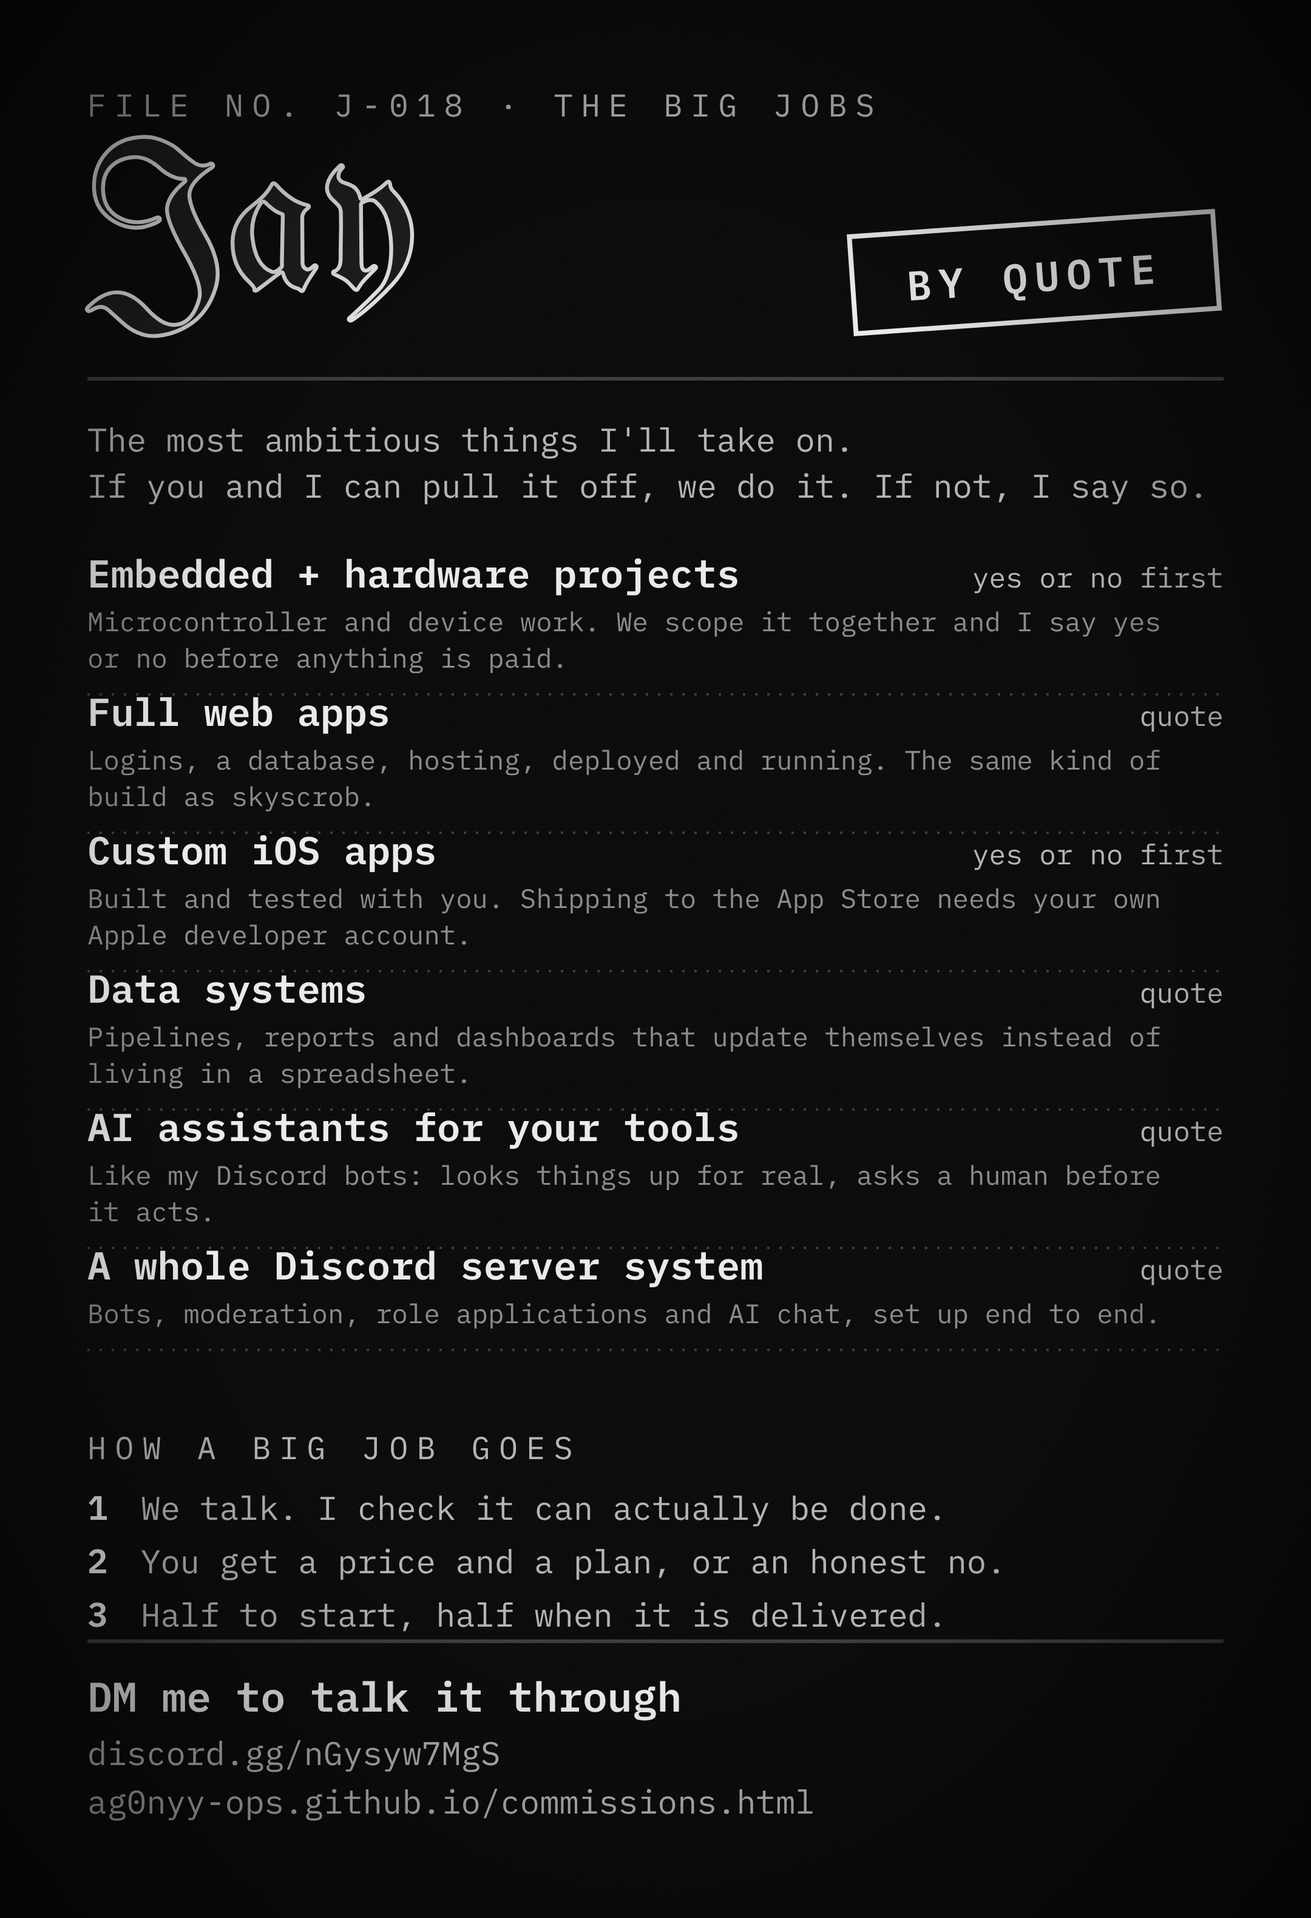
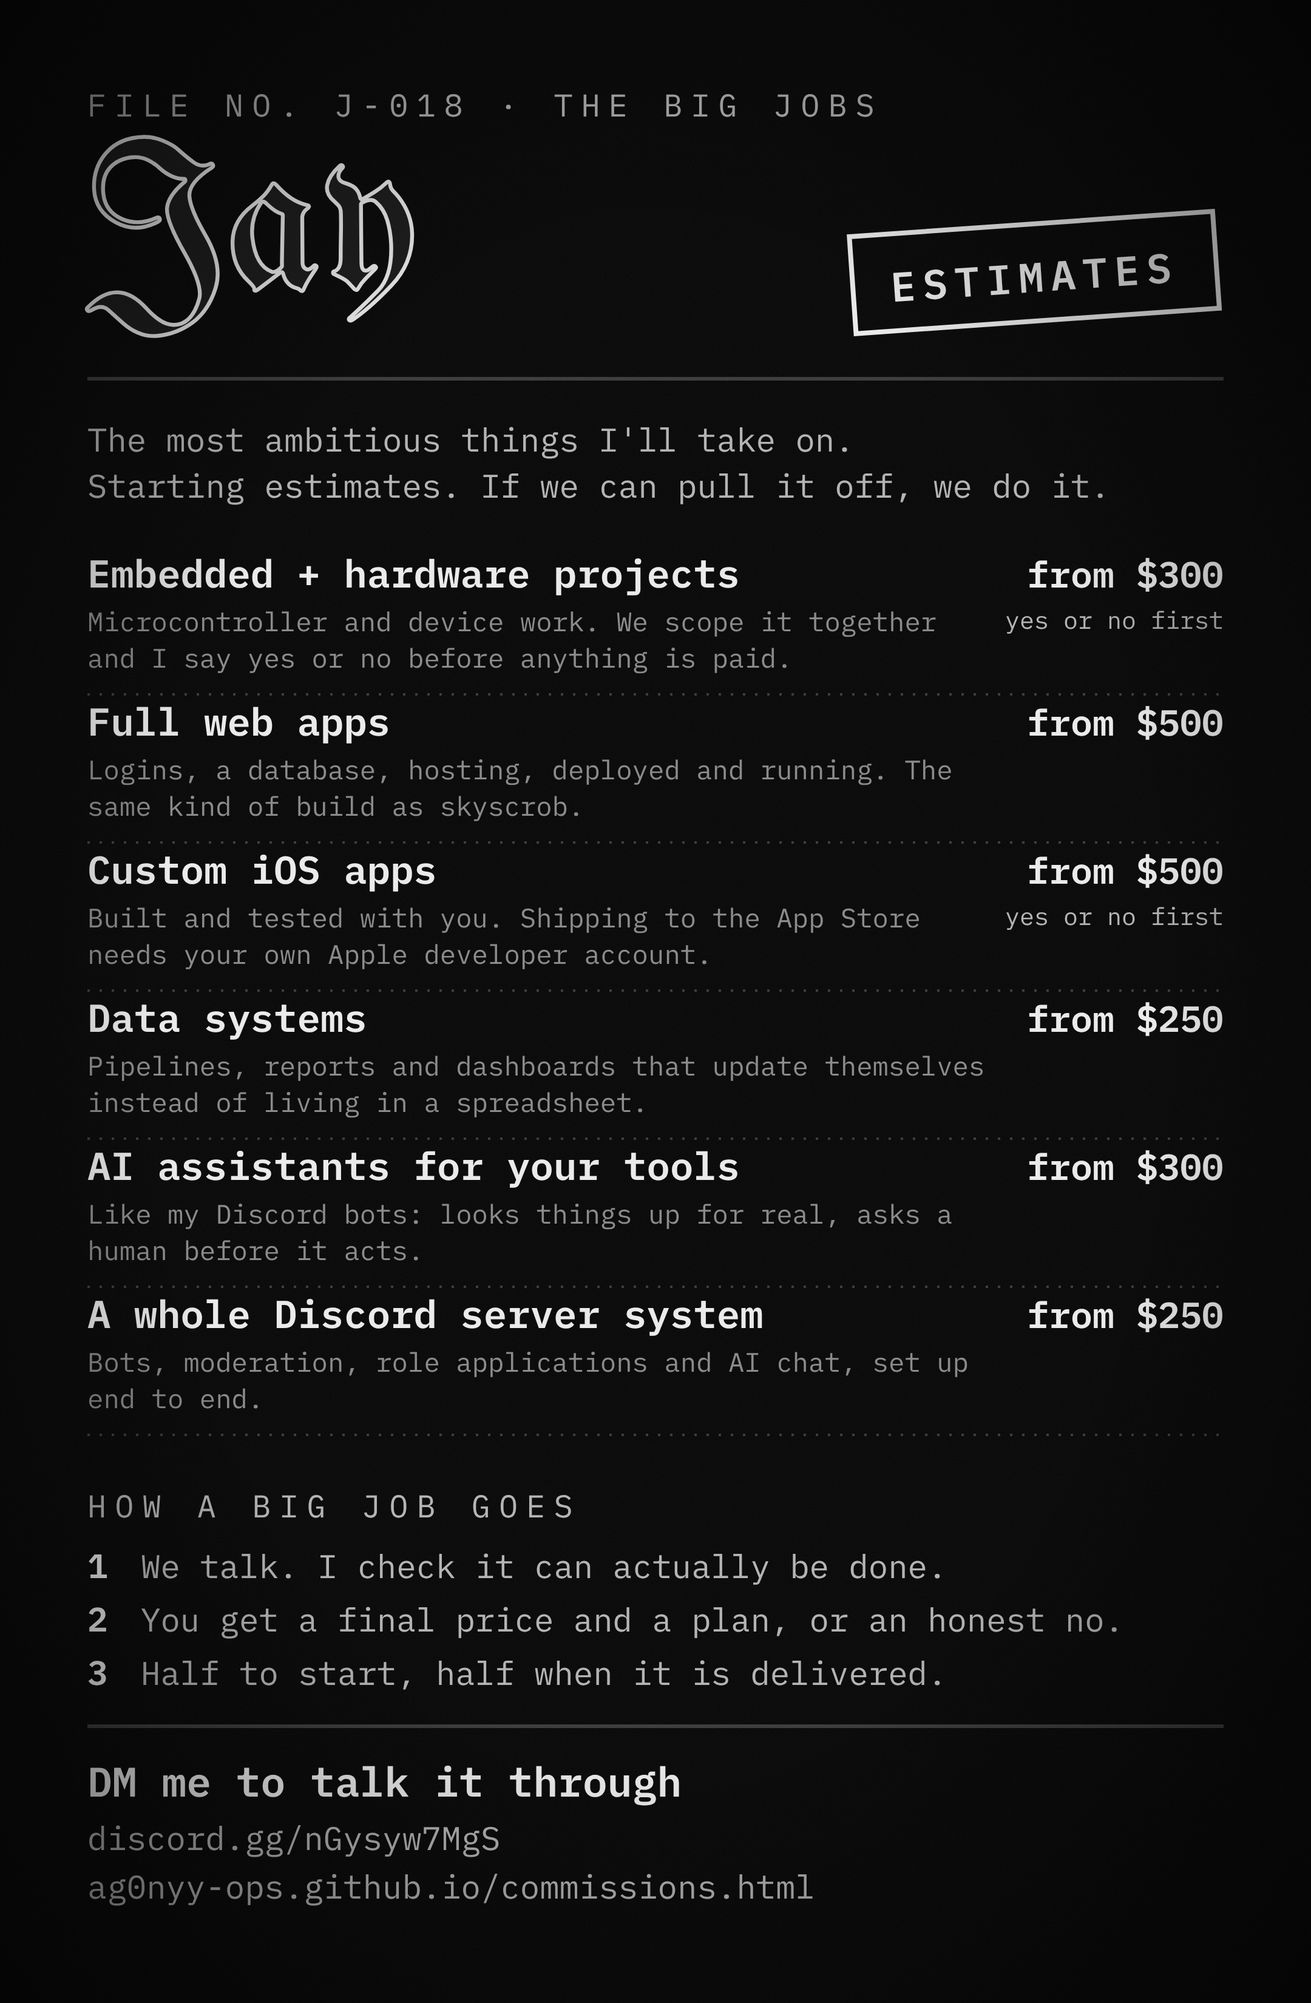
Shove the other cards aside when a level card opens, and add estimated prices for the big jobs

diff --git a/tools/make-big-jobs.js b/tools/make-big-jobs.js
@@ -1,7 +1,7 @@
 // node tools/make-big-jobs.js — "the big jobs" image: the most ambitious things I'll take on
-//   assets/commissions/big-jobs.png   1080x1580, exported at 2x
+//   assets/commissions/big-jobs.png   1080x1650, exported at 2x
 //   assets/commissions/big-jobs.svg   self-contained source (fonts + grain embedded, no external requests)
-// No prices on purpose: these are quoted per project after a feasibility check, and the sheet says so.
+// Prices are starting estimates read from assets/data/prices.js; the final price is quoted after a feasibility check.
 // Every line describes something that exists in my own projects or is scoped honestly (iOS and
 // hardware are "yes or no first"), so nothing here promises more than I can deliver.
 const { chromium } = require('playwright');
@@ -14,41 +14,48 @@ const b64 = (f) => fs.readFileSync(R + f).toString('base64');
 const JAY = JSON.parse(fs.readFileSync(R + 'tools/jay-outline.json', 'utf8'));
 const esc = (s) => String(s).replace(/&/g, '&amp;').replace(/</g, '&lt;').replace(/>/g, '&gt;');
 
+const vm = require('vm');
+const pc = { window: {}, document: { addEventListener() {}, querySelectorAll: () => [] } };
+vm.runInNewContext(fs.readFileSync(R + 'assets/data/prices.js', 'utf8'), pc);
+const P = pc.window.PRICES;
+const price = (k) => { const i = P.items[k]; return i.amount == null ? P.onRequest : `${P.label} ${P.currency}${i.amount}${i.per || ''}`; };
+
 const FG = '#ececec', MUTED = '#b4b4b4', DIM = '#8a8a8a', LINE = '#3a3a3a', BG = '#060606';
-const W = 1080, H = 1580, X0 = 72, X1 = W - 72;
+const W = 1080, H = 1650, X0 = 72, X1 = W - 72;
 
 const JOBS = [
-  ['Embedded + hardware projects', 'Microcontroller and device work. We scope it together and I say yes or no before anything is paid.', 'yes or no first'],
-  ['Full web apps', 'Logins, a database, hosting, deployed and running. The same kind of build as skyscrob.', 'quote'],
-  ['Custom iOS apps', 'Built and tested with you. Shipping to the App Store needs your own Apple developer account.', 'yes or no first'],
-  ['Data systems', 'Pipelines, reports and dashboards that update themselves instead of living in a spreadsheet.', 'quote'],
-  ['AI assistants for your tools', 'Like my Discord bots: looks things up for real, asks a human before it acts.', 'quote'],
-  ['A whole Discord server system', 'Bots, moderation, role applications and AI chat, set up end to end.', 'quote'],
+  ['Embedded + hardware projects', 'Microcontroller and device work. We scope it together and I say yes or no before anything is paid.', 'embedded', true],
+  ['Full web apps', 'Logins, a database, hosting, deployed and running. The same kind of build as skyscrob.', 'web-app-full', false],
+  ['Custom iOS apps', 'Built and tested with you. Shipping to the App Store needs your own Apple developer account.', 'ios-app', true],
+  ['Data systems', 'Pipelines, reports and dashboards that update themselves instead of living in a spreadsheet.', 'data-dashboard', false],
+  ['AI assistants for your tools', 'Like my Discord bots: looks things up for real, asks a human before it acts.', 'ai-assistant', false],
+  ['A whole Discord server system', 'Bots, moderation, role applications and AI chat, set up end to end.', 'discord-system', false],
 ];
 
 function body() {
   let s = `<text x="${X0}" y="96" font-size="26" letter-spacing="7" fill="${MUTED}">FILE NO. J-018 · THE BIG JOBS</text>`;
   s += `<g transform="translate(${X0 - 4} 236) scale(.082)"><path d="${JAY.d}" fill="#fff" fill-opacity=".08" stroke="${FG}" stroke-width="3.2" stroke-linejoin="round" vector-effect="non-scaling-stroke"/></g>`;
-  s += `<g transform="translate(${X1 - 6} 218) rotate(-4)"><rect x="-300" y="-44" width="300" height="80" fill="none" stroke="${FG}" stroke-width="4"/><text x="-150" y="12" text-anchor="middle" font-size="34" font-weight="600" letter-spacing="6" fill="${FG}">BY QUOTE</text></g>`;
+  s += `<g transform="translate(${X1 - 6} 218) rotate(-4)"><rect x="-300" y="-44" width="300" height="80" fill="none" stroke="${FG}" stroke-width="4"/><text x="-150" y="12" text-anchor="middle" font-size="34" font-weight="600" letter-spacing="6" fill="${FG}">ESTIMATES</text></g>`;
   s += `<path d="M${X0} 312 H${X1}" stroke="${LINE}" stroke-width="3"/>`;
   s += `<text x="${X0}" y="372" font-size="27" fill="${MUTED}">The most ambitious things I'll take on.</text>`;
-  s += `<text x="${X0}" y="410" font-size="27" fill="${MUTED}">If you and I can pull it off, we do it. If not, I say so.</text>`;
+  s += `<text x="${X0}" y="410" font-size="27" fill="${MUTED}">Starting estimates. If we can pull it off, we do it.</text>`;
 
-  JOBS.forEach(([name, desc, tag], i) => {
-    const y = 484 + i * 114;
+  JOBS.forEach(([name, desc, key, check], i) => {
+    const y = 484 + i * 122;
     s += `<text x="${X0}" y="${y}" font-size="32" font-weight="600" fill="${FG}">${esc(name)}</text>`;
-    s += `<text x="${X1}" y="${y}" font-size="23" text-anchor="end" fill="${MUTED}">${esc(tag)}</text>`;
+    s += `<text x="${X1}" y="${y}" font-size="30" font-weight="600" text-anchor="end" fill="${FG}">${esc(price(key))}</text>`;
+    if (check) s += `<text x="${X1}" y="${y + 34}" font-size="20" text-anchor="end" fill="${MUTED}">yes or no first</text>`;
     // wrap the description to about 68 characters a line
     const words = desc.split(' '); const lines = []; let cur = '';
-    for (const w of words) { if ((cur + ' ' + w).trim().length > 68) { lines.push(cur); cur = w; } else cur = (cur + ' ' + w).trim(); }
+    for (const w of words) { if ((cur + ' ' + w).trim().length > 56) { lines.push(cur); cur = w; } else cur = (cur + ' ' + w).trim(); }
     lines.push(cur);
     lines.forEach((l, j) => { s += `<text x="${X0}" y="${y + 36 + j * 30}" font-size="22" fill="${DIM}">${esc(l)}</text>`; });
     s += `<path d="M${X0} ${y + 36 + (lines.length - 1) * 30 + 22} H${X1}" stroke="${LINE}" stroke-width="2" stroke-dasharray="2 8"/>`;
   });
 
-  const hy = 484 + JOBS.length * 114 + 34;
+  const hy = 484 + JOBS.length * 122 + 34;
   s += `<text x="${X0}" y="${hy}" font-size="26" letter-spacing="7" fill="${MUTED}">HOW A BIG JOB GOES</text>`;
-  [['1', 'We talk. I check it can actually be done.'], ['2', 'You get a price and a plan, or an honest no.'], ['3', 'Half to start, half when it is delivered.']].forEach(([n, t], i) => {
+  [['1', 'We talk. I check it can actually be done.'], ['2', 'You get a final price and a plan, or an honest no.'], ['3', 'Half to start, half when it is delivered.']].forEach(([n, t], i) => {
     s += `<text x="${X0}" y="${hy + 50 + i * 44}" font-size="28" font-weight="600" fill="${FG}">${n}</text><text x="${X0 + 44}" y="${hy + 50 + i * 44}" font-size="27" fill="${MUTED}">${esc(t)}</text>`;
   });
   const by = H - 176;

diff --git a/assets/js/levels.js b/assets/js/levels.js
@@ -1,0 +1,137 @@
+/* jay. — © 2026 Jay — https://ag0nyy-ops.github.io/ — source viewable, not reusable (LICENSE)
+
+   Commission cards: opening one shoves the others off the screen, sideways, one after
+   another like a pile-up, then the card widens into the gap and its levels unfold.
+   Closing runs it backwards: the levels fold up, then the others drive back in.
+
+   It only adds motion. Without this script (or with reduced motion) each card is still a
+   plain <details> dropdown. Nothing here can make the page scroll sideways: the page clips
+   horizontal overflow, and the cards leave by transform only. */
+(() => {
+  'use strict';
+  const section = document.getElementById('wants');
+  if (!section) return;
+
+  const root = document.documentElement;
+  const cards = [...section.querySelectorAll('.want')];
+  const label = section.querySelector('.more__k');
+  const reduce = matchMedia('(prefers-reduced-motion: reduce)');
+  root.classList.add('js-levels');
+
+  let busy = false;
+  const wait = (ms) => new Promise((r) => setTimeout(r, ms));
+  const rect = (el) => el.getBoundingClientRect();
+  const done = (anims) => Promise.all(anims.map((a) => a.finished.catch(() => {})));
+
+  /* everything that is not `card`, nearest first, with the side it gets shoved to:
+     left of the card goes left, right of it goes right, and a card directly above or
+     below goes left or right depending on whether it is above or below */
+  function others(card) {
+    const c = rect(card), cx = c.left + c.width / 2, cy = c.top + c.height / 2;
+    return cards.filter((o) => o !== card && !o.hidden).map((el) => {
+      const r = rect(el), ox = r.left + r.width / 2, oy = r.top + r.height / 2;
+      const dir = Math.abs(ox - cx) < 24 ? (oy < cy ? -1 : 1) : (ox < cx ? -1 : 1);
+      // far enough that the whole card is past the screen edge
+      const x = dir < 0 ? -(r.right + 80) : innerWidth - r.left + 80;
+      return { el, dir, x, dist: Math.hypot(ox - cx, oy - cy) };
+    }).sort((a, b) => a.dist - b.dist);
+  }
+  const offscreen = (m, i) => `translateX(${m.x}px) rotate(${m.dir * (7 + (i % 3) * 3)}deg)`;
+
+  function settle(card) {            // bring the card into view if the layout moved it away
+    const r = rect(card);
+    if (r.top < 70 || r.top > innerHeight * 0.55) scrollTo({ top: scrollY + r.top - 100, behavior: 'smooth' });
+  }
+
+  async function open(card) {
+    const d = card.querySelector('.want__d');
+    const movers = others(card);
+
+    if (reduce.matches) {
+      movers.forEach((m) => { m.el.hidden = true; });
+      if (label) label.hidden = true;
+      card.classList.add('is-open'); d.open = true;
+      settle(card);
+      return;
+    }
+
+    root.style.overflowAnchor = 'none';
+    // the impact: the card takes a hit as the others are knocked away
+    card.animate([{ transform: 'scale(1)' }, { transform: 'scale(1.03)' }, { transform: 'scale(1)' }],
+      { duration: 300, delay: 40, easing: 'ease-out' });
+    const out = movers.map((m, i) => m.el.animate(
+      [{ transform: 'none' }, { transform: offscreen(m, i) }],
+      { duration: 380, delay: Math.min(i * 22, 110), easing: 'cubic-bezier(.6,.05,.9,.5)', fill: 'forwards' }));
+    await done(out);
+
+    // they are gone: take them out of the layout so the card can widen into the gap
+    const old = rect(card);
+    movers.forEach((m) => { m.el.hidden = true; });
+    if (label) label.hidden = true;
+    out.forEach((a) => a.cancel());
+    card.classList.add('is-open'); d.open = true;
+    const now = rect(card);
+
+    // the card slides and widens from where it was to where it is now
+    card.style.justifySelf = 'start';
+    const flip = card.animate([
+      { width: old.width + 'px', transform: `translate(${old.left - now.left}px, ${old.top - now.top}px)` },
+      { width: now.width + 'px', transform: 'none' },
+    ], { duration: 440, easing: 'cubic-bezier(.22,1,.36,1)' });
+    await done([flip]);
+    card.style.justifySelf = '';
+    root.style.overflowAnchor = '';
+    settle(card);
+  }
+
+  async function close(card) {
+    const d = card.querySelector('.want__d');
+    d.querySelectorAll('.level[open]').forEach((l) => { l.open = false; });
+
+    if (reduce.matches) {
+      d.open = false; card.classList.remove('is-open');
+      cards.forEach((o) => { o.hidden = false; }); if (label) label.hidden = false;
+      return;
+    }
+
+    d.open = false;                  // the levels fold up first (a CSS transition), still wide
+    await wait(440);
+    root.style.overflowAnchor = 'none';
+    const old = rect(card);
+    card.classList.remove('is-open');
+    cards.forEach((o) => { o.hidden = false; }); if (label) label.hidden = false;
+    const now = rect(card);
+    const movers = others(card);
+
+    // the others drive back in from the sides, nearest first
+    const back = movers.map((m, i) => m.el.animate(
+      [{ transform: offscreen(m, i) }, { transform: 'none' }],
+      { duration: 460, delay: Math.min(i * 22, 110), easing: 'cubic-bezier(.1,.6,.3,1)', fill: 'backwards' }));
+    card.style.justifySelf = 'start';
+    const flip = card.animate([
+      { width: old.width + 'px', transform: `translate(${old.left - now.left}px, ${old.top - now.top}px)` },
+      { width: now.width + 'px', transform: 'none' },
+    ], { duration: 440, easing: 'cubic-bezier(.22,1,.36,1)' });
+    await done([flip, ...back]);
+    card.style.justifySelf = '';
+    root.style.overflowAnchor = '';
+    settle(card);
+  }
+
+  async function toggle(card) {
+    if (busy) return;
+    busy = true;
+    try { await (card.classList.contains('is-open') ? close(card) : open(card)); }
+    finally { busy = false; }
+  }
+
+  cards.filter((c) => c.classList.contains('want--levels')).forEach((card) => {
+    const summary = card.querySelector('.want__d > summary');
+    summary.addEventListener('click', (e) => { e.preventDefault(); toggle(card); });
+  });
+  addEventListener('keydown', (e) => {
+    if (e.key !== 'Escape') return;
+    const card = section.querySelector('.want.is-open');
+    if (card) toggle(card);
+  });
+})();

diff --git a/assets/data/prices.js b/assets/data/prices.js
@@ -28,13 +28,17 @@ window.PRICES = {
     'website-small':    { amount: 150 },                    // websites: small site
     'web-app-standard': { amount: 300 },                    // web apps: app with accounts
     'web-app-full':     { amount: 500 },                    // web apps: full app
+    // --- the big jobs (estimates: the final price is quoted after a feasibility check) ---
+    'embedded':         { amount: 300 },                    // embedded + hardware projects
+    'ios-app':          { amount: 500 },                    // a full custom iOS app
+    'ai-assistant':     { amount: 300 },                    // an AI assistant wired into your tools
     'backends':         { amount: 100 },                    // APIs, backends + hosting
     'websites':         { amount: 75 },                     // websites + landing pages
     'web-apps':         { amount: 150 },                    // 02 custom web apps + tools
     'ai':               { amount: 100 },                    // 03 ai chatbots + integrations
     'automation':       { amount: 40 },                     // 04 automation + scripts
     'discord-bots':     { amount: 50 },                     // 05 discord bots + server setup
-    'mobile':           { amount: null },                   // 06 ios / mobile prototypes
+    'mobile':           { amount: 100 },                    // ios / mobile prototypes
     'maintenance':      { amount: 15, per: ' per fix',      // 07 fixes + maintenance
                           or: { amount: 15, per: '/mo care plan' } },
     'custom-showpiece': { amount: 300 },                    // the "like this one" line

diff --git a/commissions.html b/commissions.html
@@ -23,7 +23,7 @@
   <!-- fonts are self-hosted (assets/fonts); preload the two the first screen needs -->
   <link rel="preload" href="assets/fonts/unifrakturmaguntia-400-latin.woff2" as="font" type="font/woff2" crossorigin>
   <link rel="preload" href="assets/fonts/ibm-plex-sans-latin.woff2" as="font" type="font/woff2" crossorigin>
-  <link rel="stylesheet" href="assets/css/style.css?v=18">
+  <link rel="stylesheet" href="assets/css/style.css?v=19">
   <script>
     /* The only blocking JS, kept tiny:
        1. skip the eyelid intro on repeat visits this session
@@ -54,6 +54,7 @@
     })(document.documentElement);
   </script>
   <script src="assets/js/main.js?v=14" defer></script>
+  <script src="assets/js/levels.js?v=1" defer></script>
 </head>
 <body>
   <a class="skip" href="#main">Skip to content</a>
@@ -447,7 +448,7 @@
         <span class="price__amt"><b data-price="custom-showpiece">quote on request</b></span>
         <a class="price__cta" href="https://discord.gg/nGysyw7MgS" target="_blank" rel="noopener">DM to book <span aria-hidden="true">↗</span></a>
       </p>
-      <p class="scope-note bleed">Final price depends on scope. iOS / mobile prototypes and unusual jobs are quoted per project. <a href="https://discord.gg/nGysyw7MgS" target="_blank" rel="noopener">DM me with what you need.</a></p>
+      <p class="scope-note bleed">Final price depends on scope. Unusual jobs are quoted per project. <a href="https://discord.gg/nGysyw7MgS" target="_blank" rel="noopener">DM me with what you need.</a></p>
       <script src="assets/data/prices.js?v=8"></script>
     </section>
 

diff --git a/index.html b/index.html
@@ -23,7 +23,7 @@
   <!-- fonts are self-hosted (assets/fonts); preload the two the first screen needs -->
   <link rel="preload" href="assets/fonts/unifrakturmaguntia-400-latin.woff2" as="font" type="font/woff2" crossorigin>
   <link rel="preload" href="assets/fonts/ibm-plex-sans-latin.woff2" as="font" type="font/woff2" crossorigin>
-  <link rel="stylesheet" href="assets/css/style.css?v=18">
+  <link rel="stylesheet" href="assets/css/style.css?v=19">
   <script>
     /* The only blocking JS, kept tiny:
        1. skip the eyelid intro on repeat visits this session

diff --git a/assets/css/style.css b/assets/css/style.css
@@ -1662,6 +1662,11 @@
     .want__d[open]::details-content, .level[open]::details-content { block-size: auto; }
   }
 
+  /* ---- the push-aside animation (assets/js/levels.js) ---- */
+  .want[hidden], .more__k[hidden] { display: none !important; }
+  .wants:not(:has(> .want:not([hidden]))) { display: none; }
+  .want--levels.is-open { grid-column: 1 / -1; border-color: var(--fg); }
+
   /* the current page in the top bar stays fully lit */
   .topbar__nav a[aria-current="page"] { opacity: 1; }
 }

diff --git a/README.md b/README.md
@@ -103,6 +103,8 @@ node tools/make-previews-shots.js
 
 Seven of the service cards open like a dropdown with three levels each (native `<details>`, no JavaScript); level 1 uses the card's own price and levels 2 and 3 have their own keys in `prices.js`. `assets/commissions/big-jobs.png` is a separate image for the biggest jobs (hardware, full apps, iOS), quoted per project after a feasibility check; rebuild it with `node tools/make-big-jobs.js`. The five Discord cards are `tools/make-preview-cards.js`.
 
+`assets/js/levels.js` adds the motion: opening a card knocks the others off the screen sideways (transform only; the page clips horizontal overflow, so it can never scroll sideways), then the card widens and its levels unfold. Closing runs it backwards. Without the script, or with reduced motion, it is a plain dropdown. The big jobs and `mobile` have estimated "from" prices in `prices.js` like everything else.
+
 Payment rules: under $40 pay after it works, $40 to $149 everything up front, $150 and up half to start and half on delivery. Accepted: Cash App, Venmo, Zelle.
 
 ## Contact details
